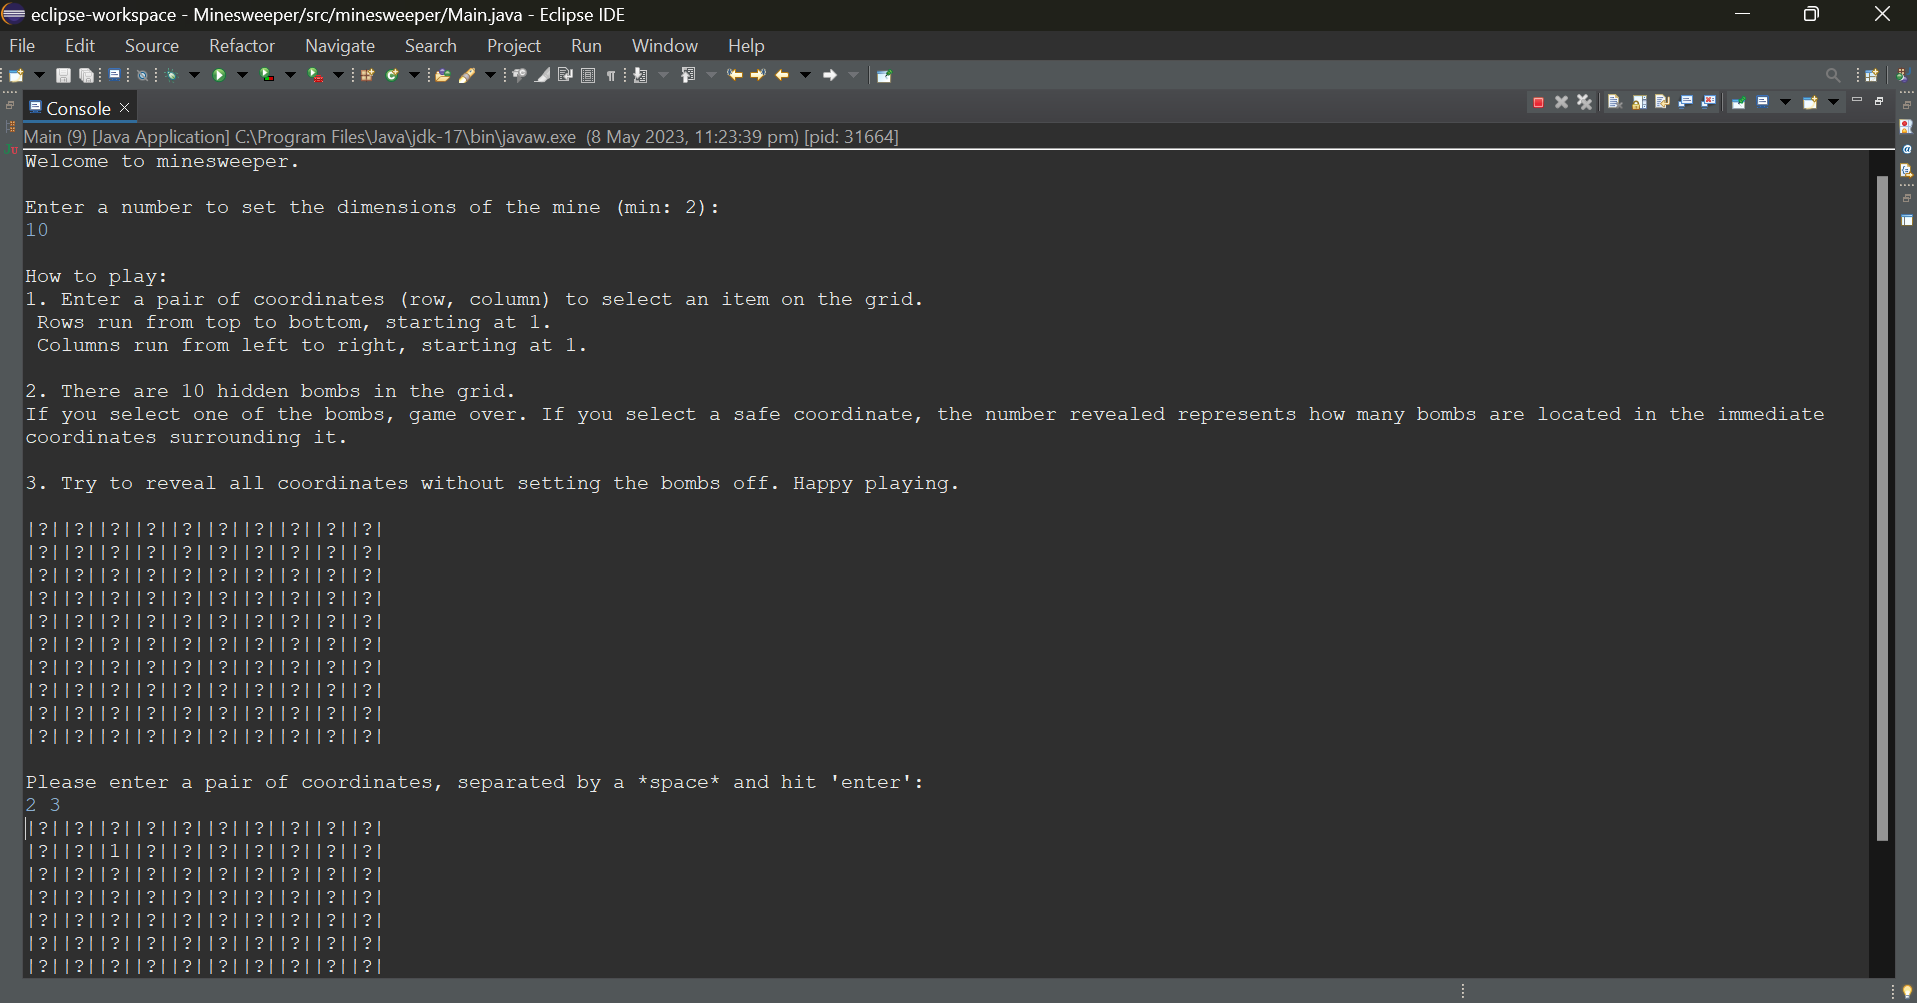
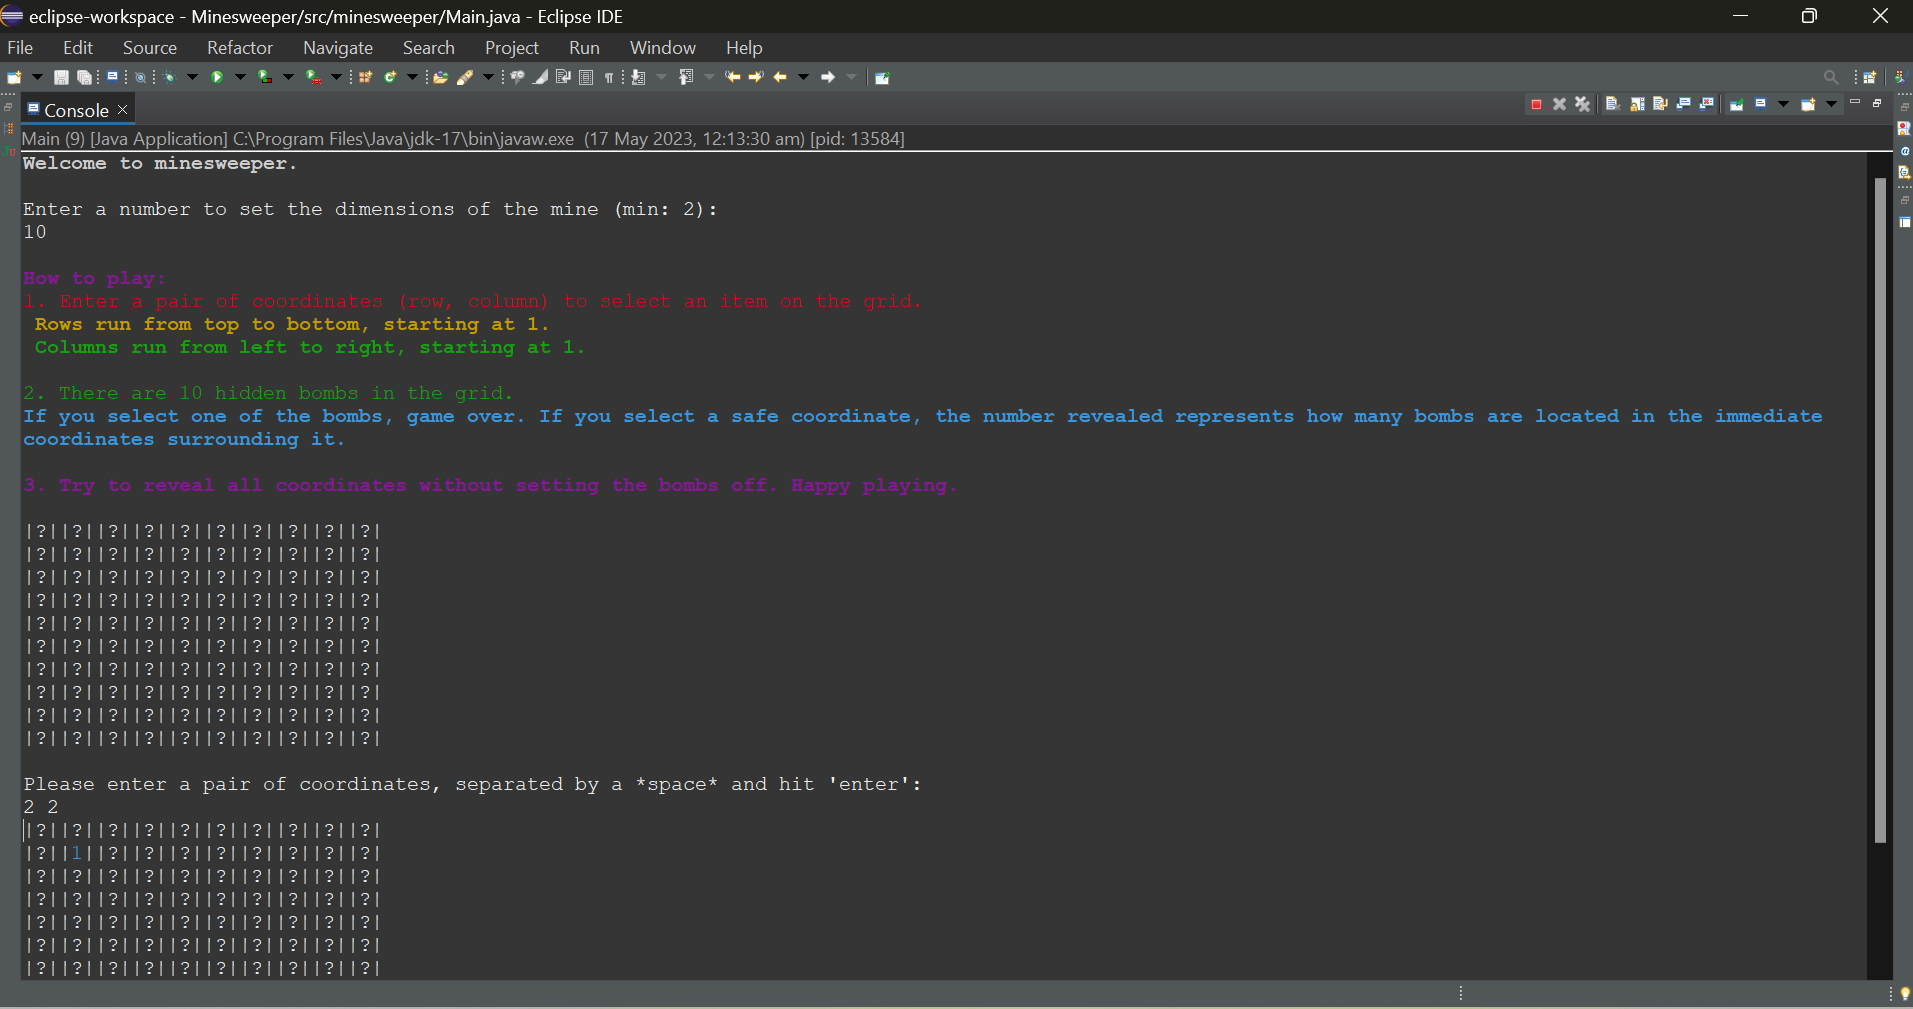
update change log, update screenshot

diff --git a/src/minesweeper/Main.java b/src/minesweeper/Main.java
@@ -4,14 +4,12 @@ import java.util.*;
 
 public class Main {
 	public static final String ANSI_RESET = "\u001B[0m";
-//	public static final String ANSI_BRIGHT_RED = "\u001B[31;1m";
 	public static final String ANSI_RED = "\u001B[31m";
 	public static final String ANSI_BRIGHT_YELLOW = "\u001B[33;1m";
 	public static final String ANSI_BRIGHT_GREEN = "\u001B[32;1m";
 	public static final String ANSI_GREEN = "\u001B[32m";
 	public static final String ANSI_BRIGHT_MAGENTA = "\u001B[35;1m";
 	public static final String ANSI_BRIGHT_CYAN = "\u001B[36;1m";
-	public static final String ANSI_BRIGHT_BLUE = "\u001B[34;1m";
 	public static final String ANSI_BRIGHT_WHITE = "\u001B[37;1m";
 	
 	public static void main (String[] args) {

diff --git a/README.md b/README.md
@@ -88,6 +88,10 @@
 
 -   Change Bomb to Bombs class to better reflect Bombs object.
 
+### 17/05/23
+
+-   Add colour feature to grid elements and instructions.
+
 ---
 
 ## What did you struggle with?
